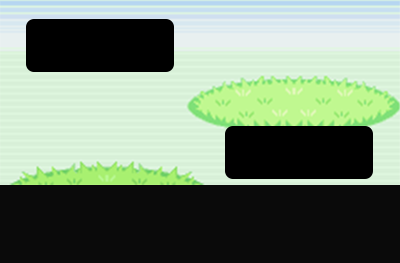
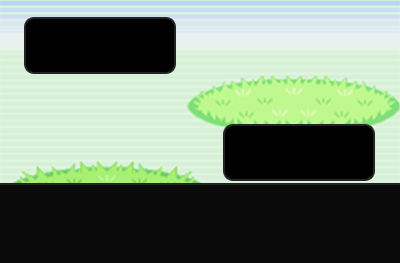
battle background

Changed region(s): [[0.0, 0.4867, 1.0, 0.73], [0.06, 0.0608, 0.45, 0.3042], [0.57, 0.4563, 0.93, 0.4867]]

diff --git a/commands/battle/battle.js b/commands/battle/battle.js
@@ -107,10 +107,12 @@ module.exports = {
 
       const players = [player1Team, player2Team];
 
-      const canvas = Canvas.createCanvas(400, 300);
+      const background = await Canvas.loadImage(
+        "https://raw.githubusercontent.com/ReinhardtR/pokebot/main/images/battleBackground.png"
+      );
+      const canvas = Canvas.createCanvas(background.width, background.height);
       const ctx = canvas.getContext("2d");
-
-      const background = await Canvas.loadImage("");
+      ctx.drawImage(background, 0, 0);
 
       const pokemonSize = 128;
 
